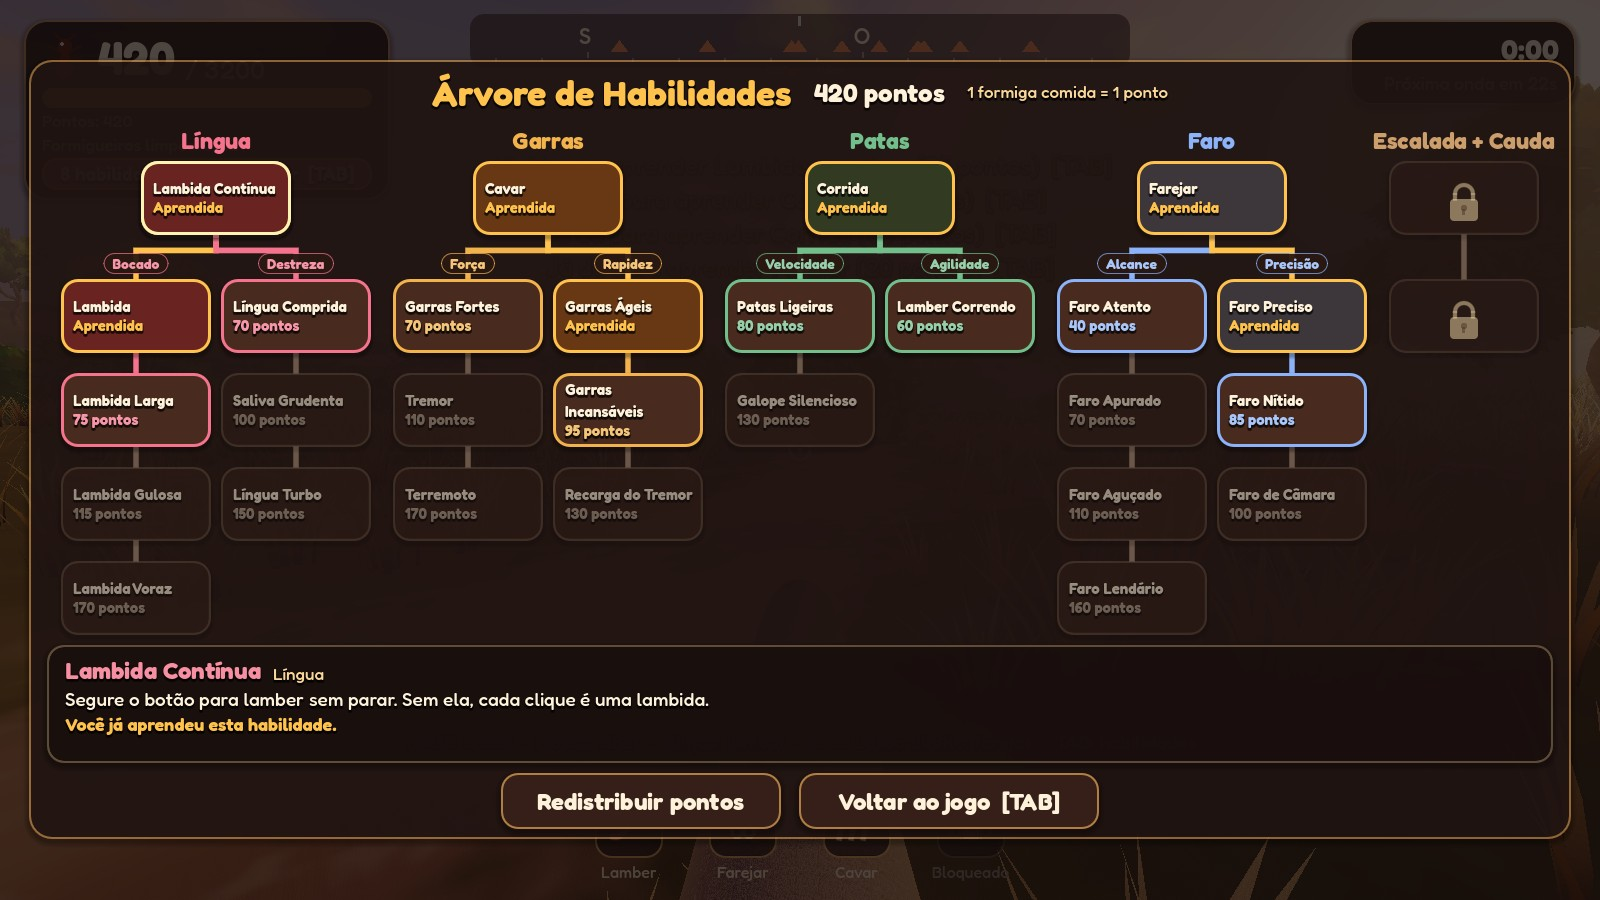
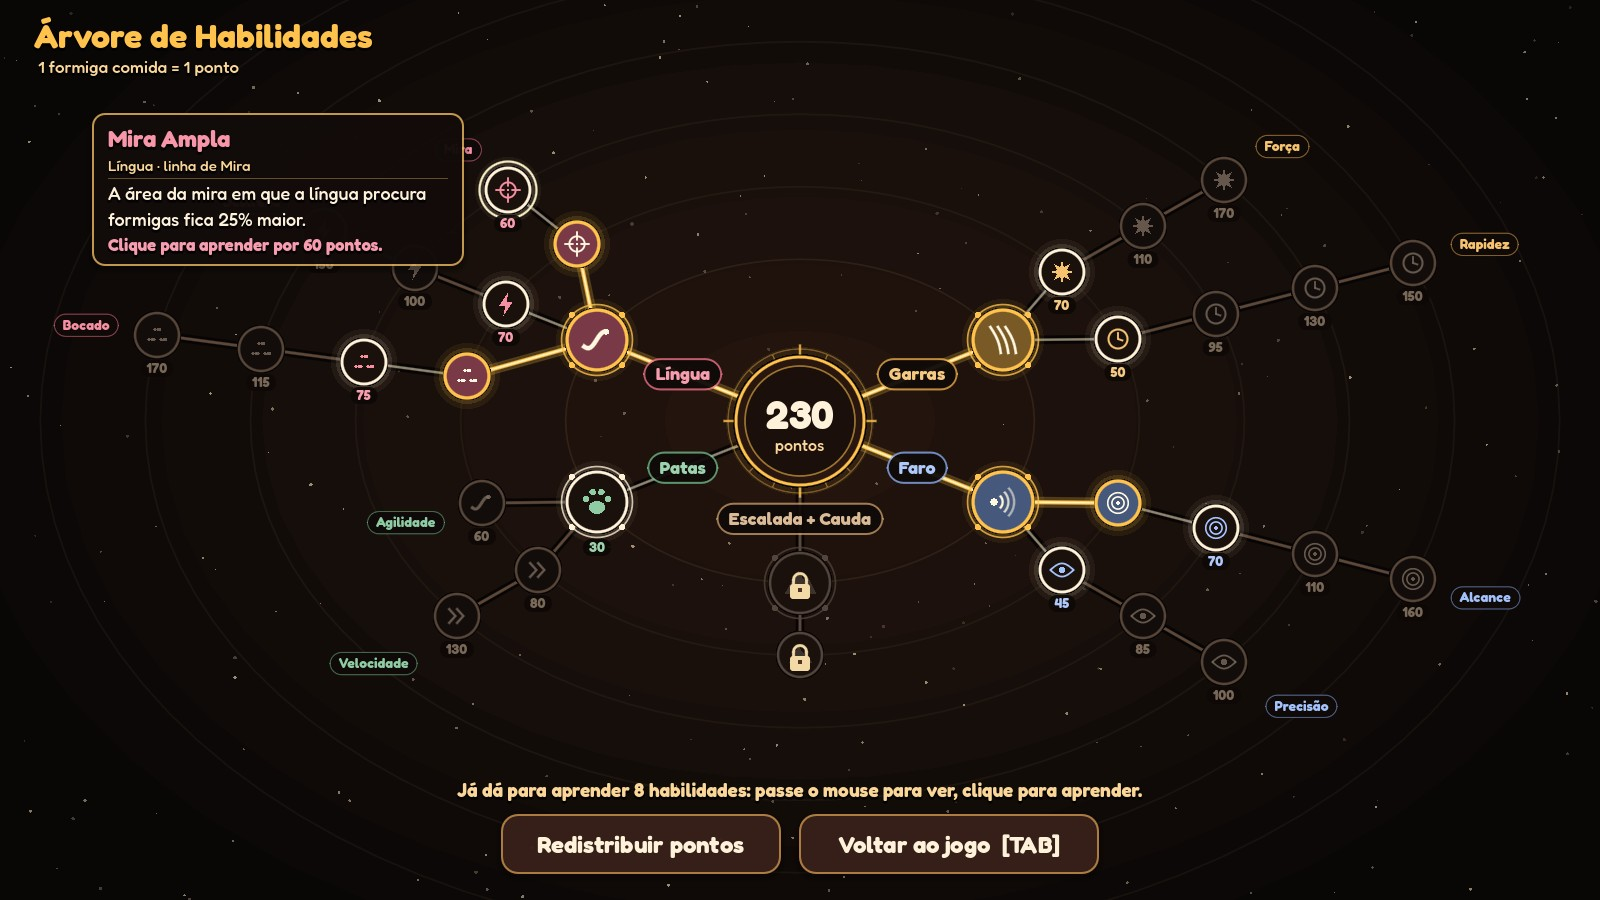
Document the fourth round of changes
Record the path from the cave, the straight tongue with the new Mira
line, the tree that no longer opens by itself and its constellation
look in the design doc and README, with a new tree screenshot.

Claude-Session: https://claude.ai/code/session_01PK3zBhGKGNdhTPcPbN78xy

diff --git a/docs/DESIGN.md b/docs/DESIGN.md
@@ -51,7 +51,7 @@ buscamos, no espírito delas:
 | **Plano de produção** | Etapas de M1 a M5, riscos e cortes sugeridos | [`docs/PLANO.md`](PLANO.md) (resumo na seção 7) | Escrito |
 | **Protótipo M1 (2D)** | Testa só a sensação de comer: 1 ninho com 6 câmaras, 259 insetos e a rainha. Gráfico simples de propósito | Pasta [`prototipos/m1-loop/`](../prototipos/m1-loop/), um projeto Godot à parte (detalhes na seção 8) | Jogável |
 | **Esboço do mapa** | As 4 áreas do jogo completo, cercadas por penhascos | Seção 3 ([`esboco-mapa.png`](esboco-mapa.png)) | Base para o formato, que pode mudar |
-| **Demo 3D** | A área 1 (uma clareira do cerrado, sempre no fim da tarde), em 1ª pessoa: começa numa caverna, cercada por penhascos, com o cupinzeiro gigante lá longe; 3200 formigas, 12 formigueiros e 58 câmaras (12 no meio do campo), rainhas, 5 habilidades (28 níveis), jogo salvo e um tronco caído que fecha a saída | Projeto principal, na raiz do repositório (detalhes na seção 8) | Jogável, já seguindo as decisões (seção 4) |
+| **Demo 3D** | A área 1 (uma clareira do cerrado, sempre no fim da tarde), em 1ª pessoa: começa numa caverna, cercada por penhascos, com o cupinzeiro gigante lá longe; 3200 formigas, 12 formigueiros e 58 câmaras (12 no meio do campo), rainhas, 5 habilidades (30 níveis), jogo salvo e um tronco caído que fecha a saída | Projeto principal, na raiz do repositório (detalhes na seção 8) | Jogável, já seguindo as decisões (seção 4) |
 
 ---
 
@@ -89,8 +89,8 @@ buscamos, no espírito delas:
 - **Na área 1, os ninhos são só formigueiros**, de uma formiga que fica só no
   chão, com as câmaras da demo. Os cupinzeiros aparecem apenas como cenário.
 - **3200 formigas** (eram 1000). Somando o preço de todas as habilidades do
-  Cerrado dá **2485 pontos**: dá para aprender tudo e ainda sobram cerca de
-  **715 formigas** (uns 3 formigueiros) para jogar com tudo liberado.
+  Cerrado dá **2575 pontos**: dá para aprender tudo e ainda sobram cerca de
+  **625 formigas** (2 ou 3 formigueiros) para jogar com tudo liberado.
 - **Por enquanto as habilidades ficam como estão.** A pontuação e a quantidade
   de formigas e cupins para liberar tudo serão reavaliadas mais para a frente.
 
@@ -146,6 +146,10 @@ buscamos, no espírito delas:
 - A **língua** começa com **um clique por lambida**, e cada lambida pega um
   inseto. A primeira habilidade (**Lambida Contínua**, 25 pontos) deixa segurar
   o botão; a linha de **Bocado** aumenta quantas vêm de uma vez: 5, 15, 25 e 40.
+- No começo a língua vai **reta** até onde você mira e pega a formiga que
+  estiver perto da ponta. A **Língua Certeira** (30 pontos) faz a língua ir
+  sozinha atrás da formiga mais perto da mira, e a **Mira Ampla** (60) deixa
+  essa área 25% maior.
 - **O fim:** a região está limpa quando não sobra nenhum inseto, nem nas trilhas
   nem dentro dos ninhos.
 
@@ -166,14 +170,22 @@ o seu preço**. Você escolhe onde gastar, e os gestos novos (segurar para lambe
 lambida, cavar, escalar) também são comprados assim. Dá para redistribuir os
 pontos de graça.
 
-Cada ramo começa com uma habilidade e depois se divide em **duas linhas que não
-se excluem** (dá para seguir as duas).
+Cada ramo começa com uma habilidade e depois se divide em **linhas que não se
+excluem** (dá para seguir todas): duas em cada ramo, e três na Língua.
+
+**A árvore tem cara de constelação**, inspirada na árvore passiva de Path of
+Exile (só no visual, sem aquele tamanho todo): os 5 ramos saem do centro, onde
+ficam os pontos; cada habilidade é um círculo com ícone e preço, as aprendidas
+acendem em dourado e as que já dá para aprender pulsam. O nome e o que cada uma
+faz aparecem ao passar o mouse (ou o controle). Ela **não abre sozinha**: quando
+dá para aprender algo, um aviso no canto da tela lembra do **TAB**.
 
 | Habilidade | Linha | Níveis (preço em pontos) |
 |---|---|---|
 | **Língua** | começo | Lambida Contínua (25: segurar para lamber) |
 | | Bocado | Lambida (40: até 5 por lambida) · Lambida Larga (75: até 15) · Lambida Gulosa (115: até 25) · Lambida Voraz (170: até 40) |
 | | Destreza | Língua Comprida (70: +50% de alcance) · Saliva Grudenta (100: gruda num raio 70% maior) · Língua Turbo (150: 2x mais rápida) |
+| | Mira | Língua Certeira (30: a língua vai atrás da formiga mais perto da mira; sem ela, vai reta) · Mira Ampla (60: essa área fica 25% maior) |
 | **Garras** | começo | Cavar (35: abre as câmaras; depois as garras descansam 25 s) |
 | | Força | Garras Fortes (70: as moradoras ficam tontas ao abrir) · Tremor (110: pulo com pancada; recarga de 21 s) · Terremoto (170: pulo mais alto, tremor maior, puxa as tontas) |
 | | Rapidez | Garras Ágeis (50: descanso de 15 s) · Garras Incansáveis (95: descanso de 5 s e cava na metade do tempo) · Recarga do Tremor (130: Tremor em 14 s) · Recarga Relâmpago (150: Tremor em 7 s) |
@@ -210,11 +222,12 @@ Feito, seguindo as decisões:
 4. **As 3200 formigas** são divididas assim: cerca de 45% andam pelas trilhas
    (e voltam para casa), o resto mora nas câmaras. 3100 operárias + 5 rainhas × 20.
 5. **Soldados:** saíram. A **tanajura** continua.
-6. **As 5 habilidades, com 28 níveis**, cada um com seu preço (seção 3). A
-   língua começa com um clique por lambida; correndo não dá para lamber até
-   aprender Lamber Correndo. Farejar também precisa ser aprendido. O **Tremor**
-   é um pulo: a pancada vem ao cair. A **Escalada + Cauda** aparece com cadeado.
-   Dá para **redistribuir os pontos**.
+6. **As 5 habilidades, com 30 níveis**, cada um com seu preço (seção 3), numa
+   árvore com **cara de constelação** que não abre sozinha. A língua começa com
+   um clique por lambida e vai **reta** até aprender a Língua Certeira; correndo
+   não dá para lamber até aprender Lamber Correndo. Farejar também precisa ser
+   aprendido. O **Tremor** é um pulo: a pancada vem ao cair. A **Escalada +
+   Cauda** aparece com cadeado. Dá para **redistribuir os pontos**.
 7. **Progresso visível:** contador de formigueiros limpos, pontos e a próxima
    habilidade no canto da tela, avisos de câmara limpa e de habilidade nova, e
    florzinhas no formigueiro quando ele fica limpo. O Faro mostra, conforme os
@@ -235,7 +248,10 @@ Feito, seguindo as decisões:
 11. **Penhascos** em volta da clareira, que são o fim do mapa, com árvores no
    platô e pedras soltas no pé.
 12. **Começo na caverna:** o tamanduá acorda numa caverna no pé do penhasco,
-   olhando para o **cupinzeiro gigante** lá longe, e a barriga ronca.
+   olhando para o **cupinzeiro gigante** lá longe, e a barriga ronca. Uma
+   **trilha de terra**, sem capim, leva da caverna até o formigueiro mais perto
+   (o Formigueiro Leste). O cupinzeiro gigante pega a mesma névoa e a mesma luz
+   do resto do cenário.
 13. **Fim da demo:** a passagem para a área 2 fica fechada por um **tronco
    caído**. Com 100% limpo, a bússola mostra a saída; segurando **E** perto do
    tronco, as garras quebram o tronco e a demo termina.
@@ -406,8 +422,8 @@ andar entre ninhos, habilidades e jogo salvo) e boa parte da M3 (o Cerrado com
 - **Língua** que estica até onde você mira; **Faro** que mostra as formigas
   através do capim; **tremor** que deixa as formigas tontas.
 - **Tanajura** voadora que dá o Frenesi.
-- **5 habilidades com 28 níveis**: 1 formiga = 1 ponto, cada nível com seu
-  preço, e redistribuição grátis.
+- **5 habilidades com 30 níveis**, numa árvore com cara de constelação: 1
+  formiga = 1 ponto, cada nível com seu preço, e redistribuição grátis.
 - **Salva sozinho**; dá para continuar de onde parou.
 - **Tela cheia e várias resoluções**, com opções gráficas separadas.
 
@@ -470,3 +486,6 @@ andar entre ninhos, habilidades e jogo salvo) e boa parte da M3 (o Cerrado com
 | 02/11/2026 | Passagem para a área 2 | Em aberto | Fechada por um tronco caído; com 100% limpo, as garras quebram o tronco e a demo termina |
 | 02/11/2026 | Lagoas | Só na "outra floresta" | Uma ou duas na clareira, só de enfeite |
 | 02/11/2026 | Barriga | Ideia: roncar mais forte na direção certa | Só ronca no começo; não aponta caminho |
+| 02/11/2026 | Primeiro caminho | Nenhum | Trilha de terra sem capim da caverna até o formigueiro mais perto |
+| 02/11/2026 | Mira da língua | Ajuda de mira desde o começo | A língua vai reta; nova linha de Mira: Língua Certeira (30) e Mira Ampla (60, área 25% maior) |
+| 02/11/2026 | Árvore de habilidades | Abria sozinha nos primeiros 25 pontos; caixas em colunas | Não abre sozinha; visual de constelação, inspirado em Path of Exile |

diff --git a/README.md b/README.md
@@ -81,6 +81,9 @@ tela, a resolução e a qualidade gráfica.
 - **Suba nos formigueiros:** lá de cima dá para ver dentro das câmaras abertas.
 - **Rainha:** fica na câmara do topo dos formigueiros grandes, protegida pelas
   outras formigas. Coma todas em volta e ela vale **20**.
+- **Língua:** no começo ela vai reta até onde você mira e pega a formiga perto
+  da ponta. Com **Língua Certeira**, ela vai sozinha atrás da formiga mais perto
+  da mira (marcada com um anel verde); a **Mira Ampla** aumenta essa área.
 - **Trilhas e ondas:** quem volta para o formigueiro sai de novo mais tarde; só
   as que você come somem de vez.
 - **Formigas fogem** quando você chega correndo: chegue andando e lamba de longe.
@@ -97,9 +100,13 @@ tela, a resolução e a qualidade gráfica.
 - **Progresso:** formigueiro limpo ganha flores, e o contador mostra quantos
   faltam.
 - **Penhascos e caverna:** a clareira é cercada por penhascos de arenito (o fim
-  do mapa). Você começa numa caverna no pé deles, e o cupinzeiro gigante aparece
-  lá longe, por cima dos penhascos. É sempre o mesmo fim de tarde, e há duas
-  lagoas de enfeite.
+  do mapa). Você começa numa caverna no pé deles, e uma trilha de terra leva até
+  o formigueiro mais perto. O cupinzeiro gigante aparece lá longe, por cima dos
+  penhascos. É sempre o mesmo fim de tarde, e há duas lagoas de enfeite.
+- **Árvore de habilidades** (`Tab`): uma constelação, com os ramos saindo do
+  centro. Passe o mouse numa habilidade para ver o que ela faz e clique para
+  aprender; as aprendidas acendem em dourado. Ela não abre sozinha: um aviso
+  lembra quando já dá para aprender algo.
 - **Fim da demo:** um tronco caído fecha a passagem para a próxima área. Com
   todas as formigas comidas, a bússola mostra a saída: segure `E` perto do
   tronco e as garras quebram o tronco.
@@ -110,14 +117,14 @@ tela, a resolução e a qualidade gráfica.
 
 | Habilidade | Níveis (preço em pontos) |
 |---|---|
-| **Língua** | Lambida Contínua (25: segurar para lamber), e depois duas linhas: **Bocado** · Lambida (40: até 5 por lambida) · Lambida Larga (75: até 15) · Lambida Gulosa (115: até 25) · Lambida Voraz (170: até 40); **Destreza** · Língua Comprida (70) · Saliva Grudenta (100) · Língua Turbo (150) |
+| **Língua** | Lambida Contínua (25: segurar para lamber), e depois três linhas: **Bocado** · Lambida (40: até 5 por lambida) · Lambida Larga (75: até 15) · Lambida Gulosa (115: até 25) · Lambida Voraz (170: até 40); **Destreza** · Língua Comprida (70) · Saliva Grudenta (100) · Língua Turbo (150); **Mira** · Língua Certeira (30: a língua vai atrás da formiga mais perto da mira) · Mira Ampla (60: essa área 25% maior) |
 | **Garras** | Cavar (35: depois as garras descansam 25 s), e depois: **Força** · Garras Fortes (70) · Tremor (110: recarga de 21 s) · Terremoto (170); **Rapidez** · Garras Ágeis (50: descanso de 15 s) · Garras Incansáveis (95: 5 s) · Recarga do Tremor (130: 14 s) · Recarga Relâmpago (150: 7 s) |
 | **Patas** | Corrida (30: +25%), e depois: **Velocidade** · Patas Ligeiras (80: mais 25%) · Galope Silencioso (130); **Agilidade** · Lamber Correndo (60) |
 | **Faro** | Farejar (20), e depois: **Alcance** · Faro Atento (40: 16 m) · Faro Apurado (70: 24 m) · Faro Aguçado (110: 34 m) · Faro Lendário (160: 50 m); **Precisão** · Faro Preciso (45: nuvem) · Faro Nítido (85: formigas brilhando) · Faro de Câmara (100) |
 | **Escalada + Cauda** | Escalada (300) · Cauda Preênsil (400): ainda não feitas (aparecem com cadeado) |
 
-1 formiga comida = 1 ponto (a rainha vale 20). As duas linhas de um ramo não se
-excluem. Tudo o que dá para aprender no Cerrado soma 2485 pontos, e dá para
+1 formiga comida = 1 ponto (a rainha vale 20). As linhas de um ramo não se
+excluem. Tudo o que dá para aprender no Cerrado soma 2575 pontos, e dá para
 redistribuir os pontos de graça na árvore.
 
 ### Tela e gráficos
@@ -197,10 +204,11 @@ Opções de teste (depois de `--` na linha de comando do Godot):
 godot --path . -- --start=play --autoplay --timescale=4 --stats
 ```
 
-`--start=play|tree|settings` pula o menu · `--autoplay` um bot joga sozinho ·
+`--start=play|tree|settings|howto` pula o menu · `--autoplay` um bot joga sozinho ·
 `--give=N` começa com N formigas · `--buy=lingua_segurar,garras_cavar` aprende
 habilidades · `--open=N|all` abre as câmaras · `--sniff=SEG` fareja nesse
 instante · `--growl` faz a barriga roncar mesmo pulando o menu ·
+`--focus=ID` abre a árvore já com uma habilidade escolhida ·
 `--captures=SEG:arquivo.png` tira
 capturas (numa janela de 1600x900) · `--quit` fecha depois · `--stats` mostra
 FPS, formigas vivas e o tempo gasto por quadro.
